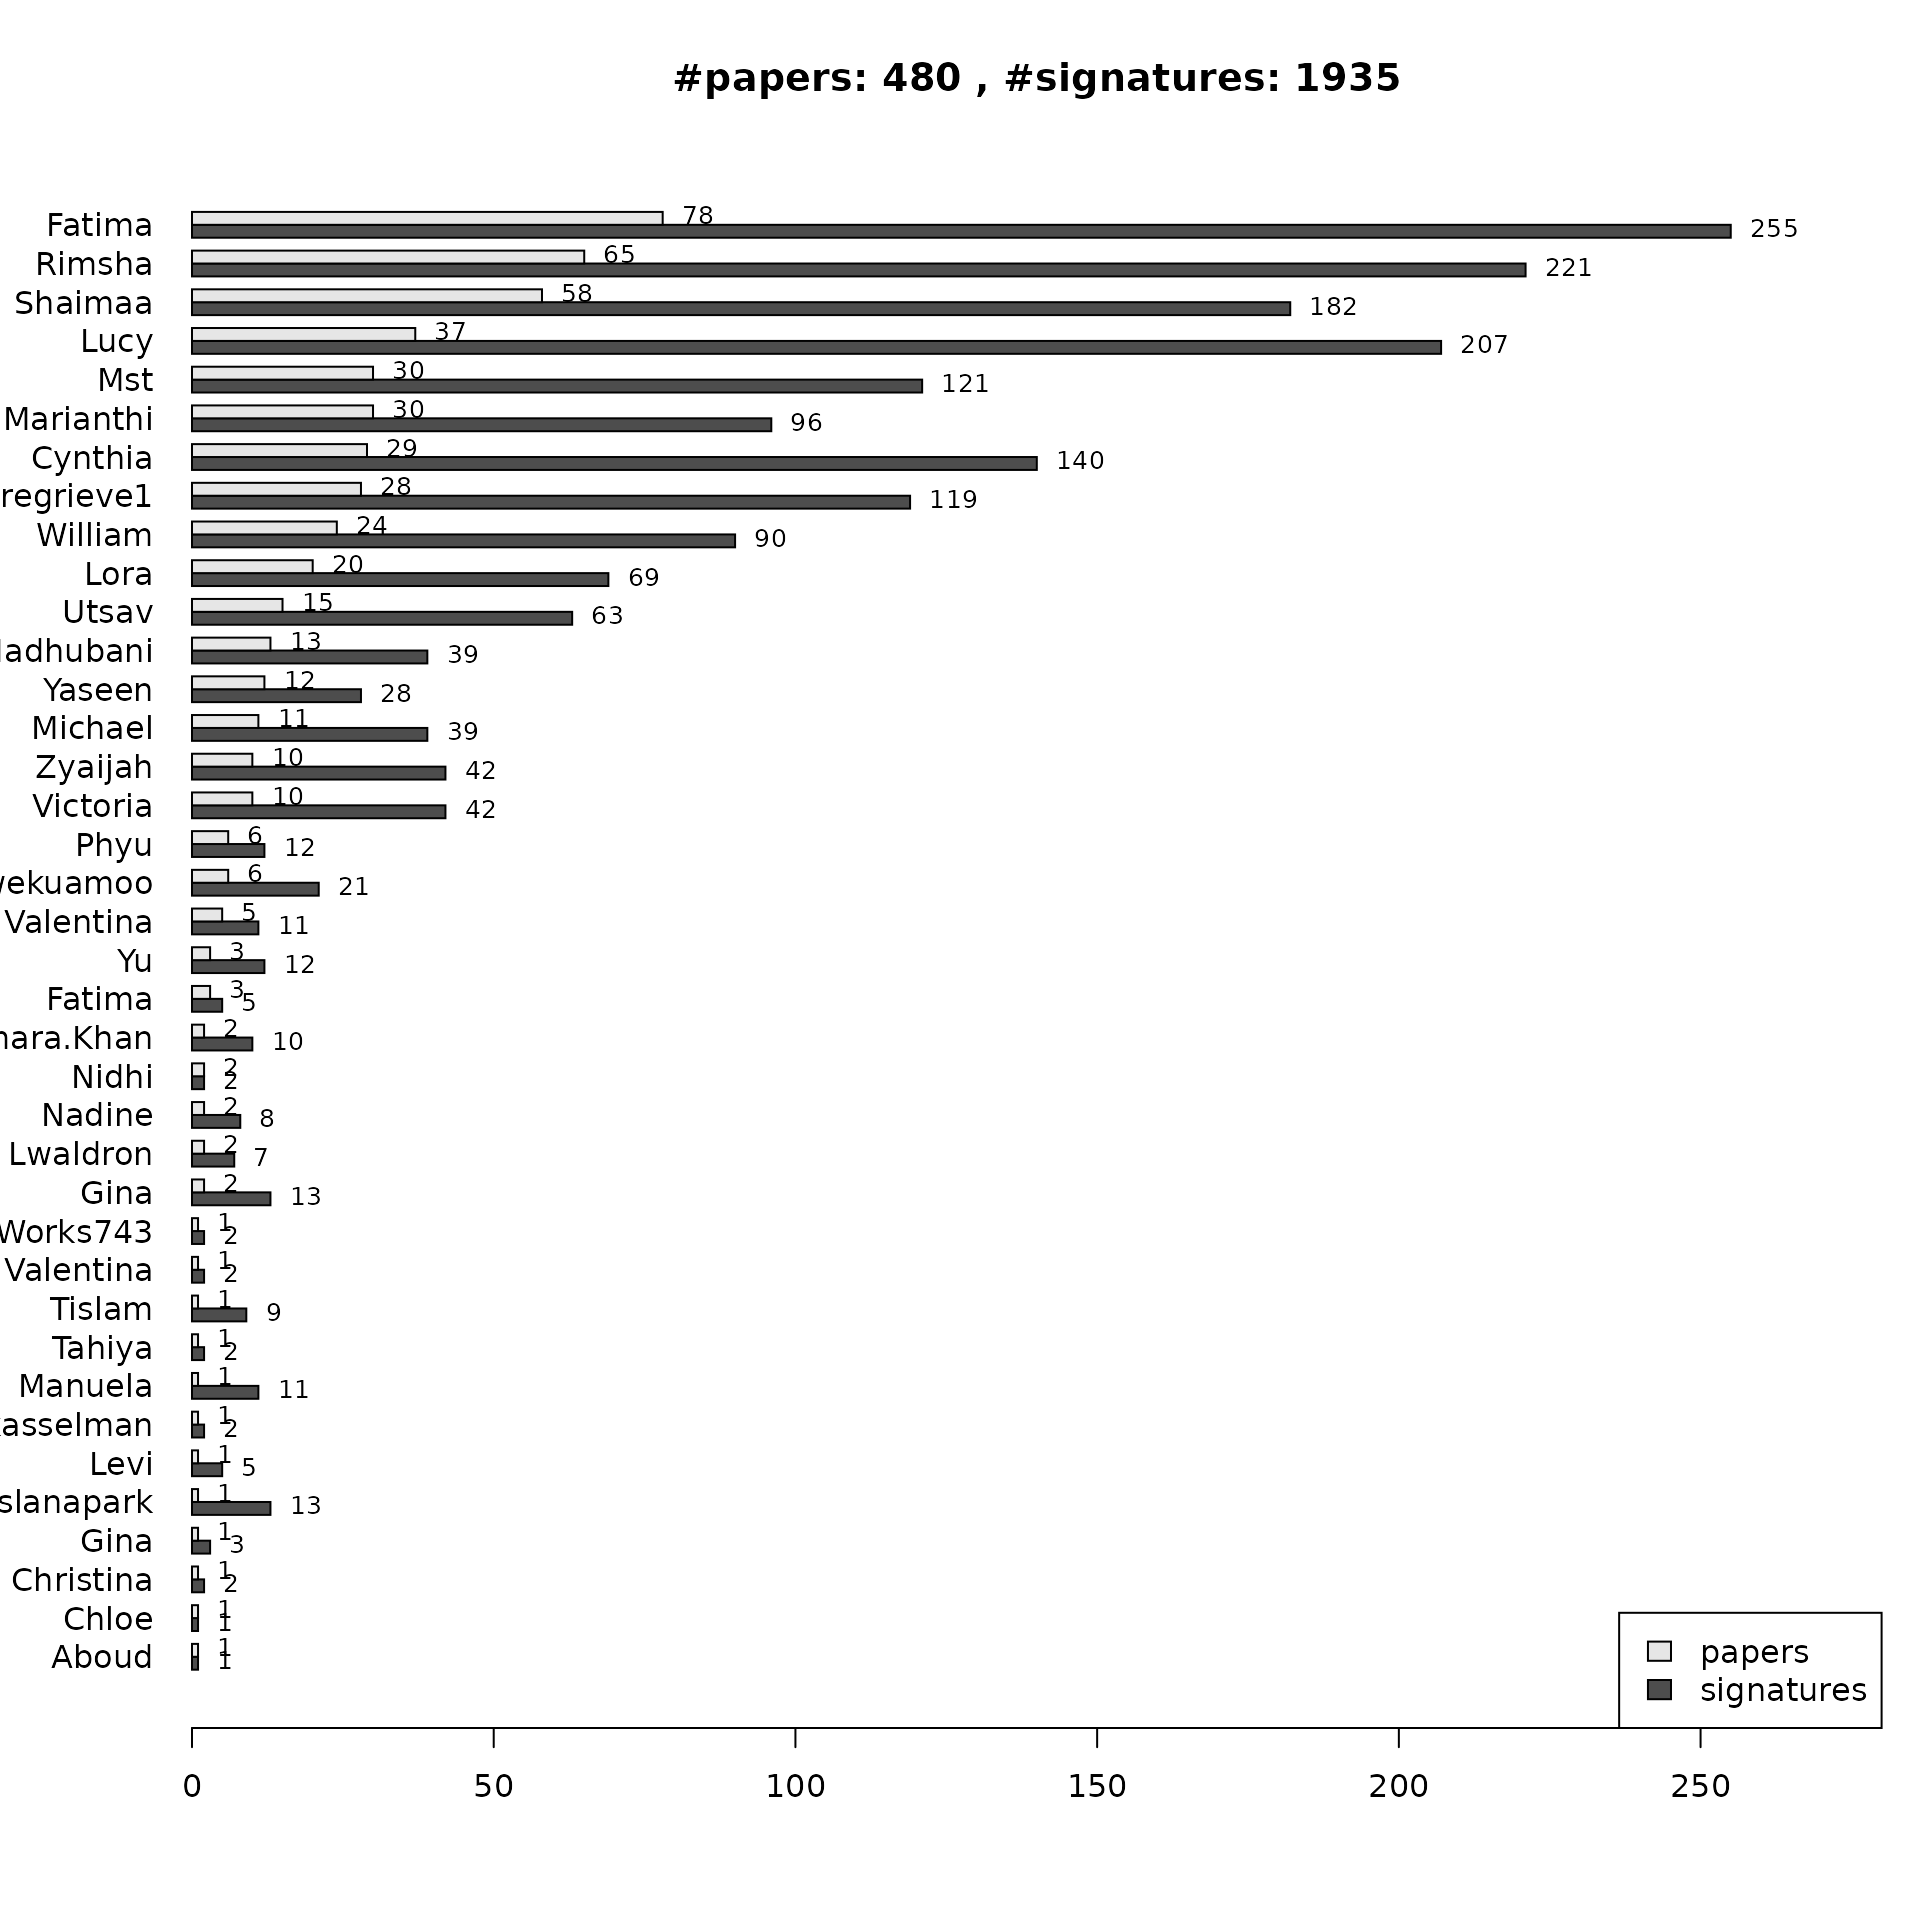
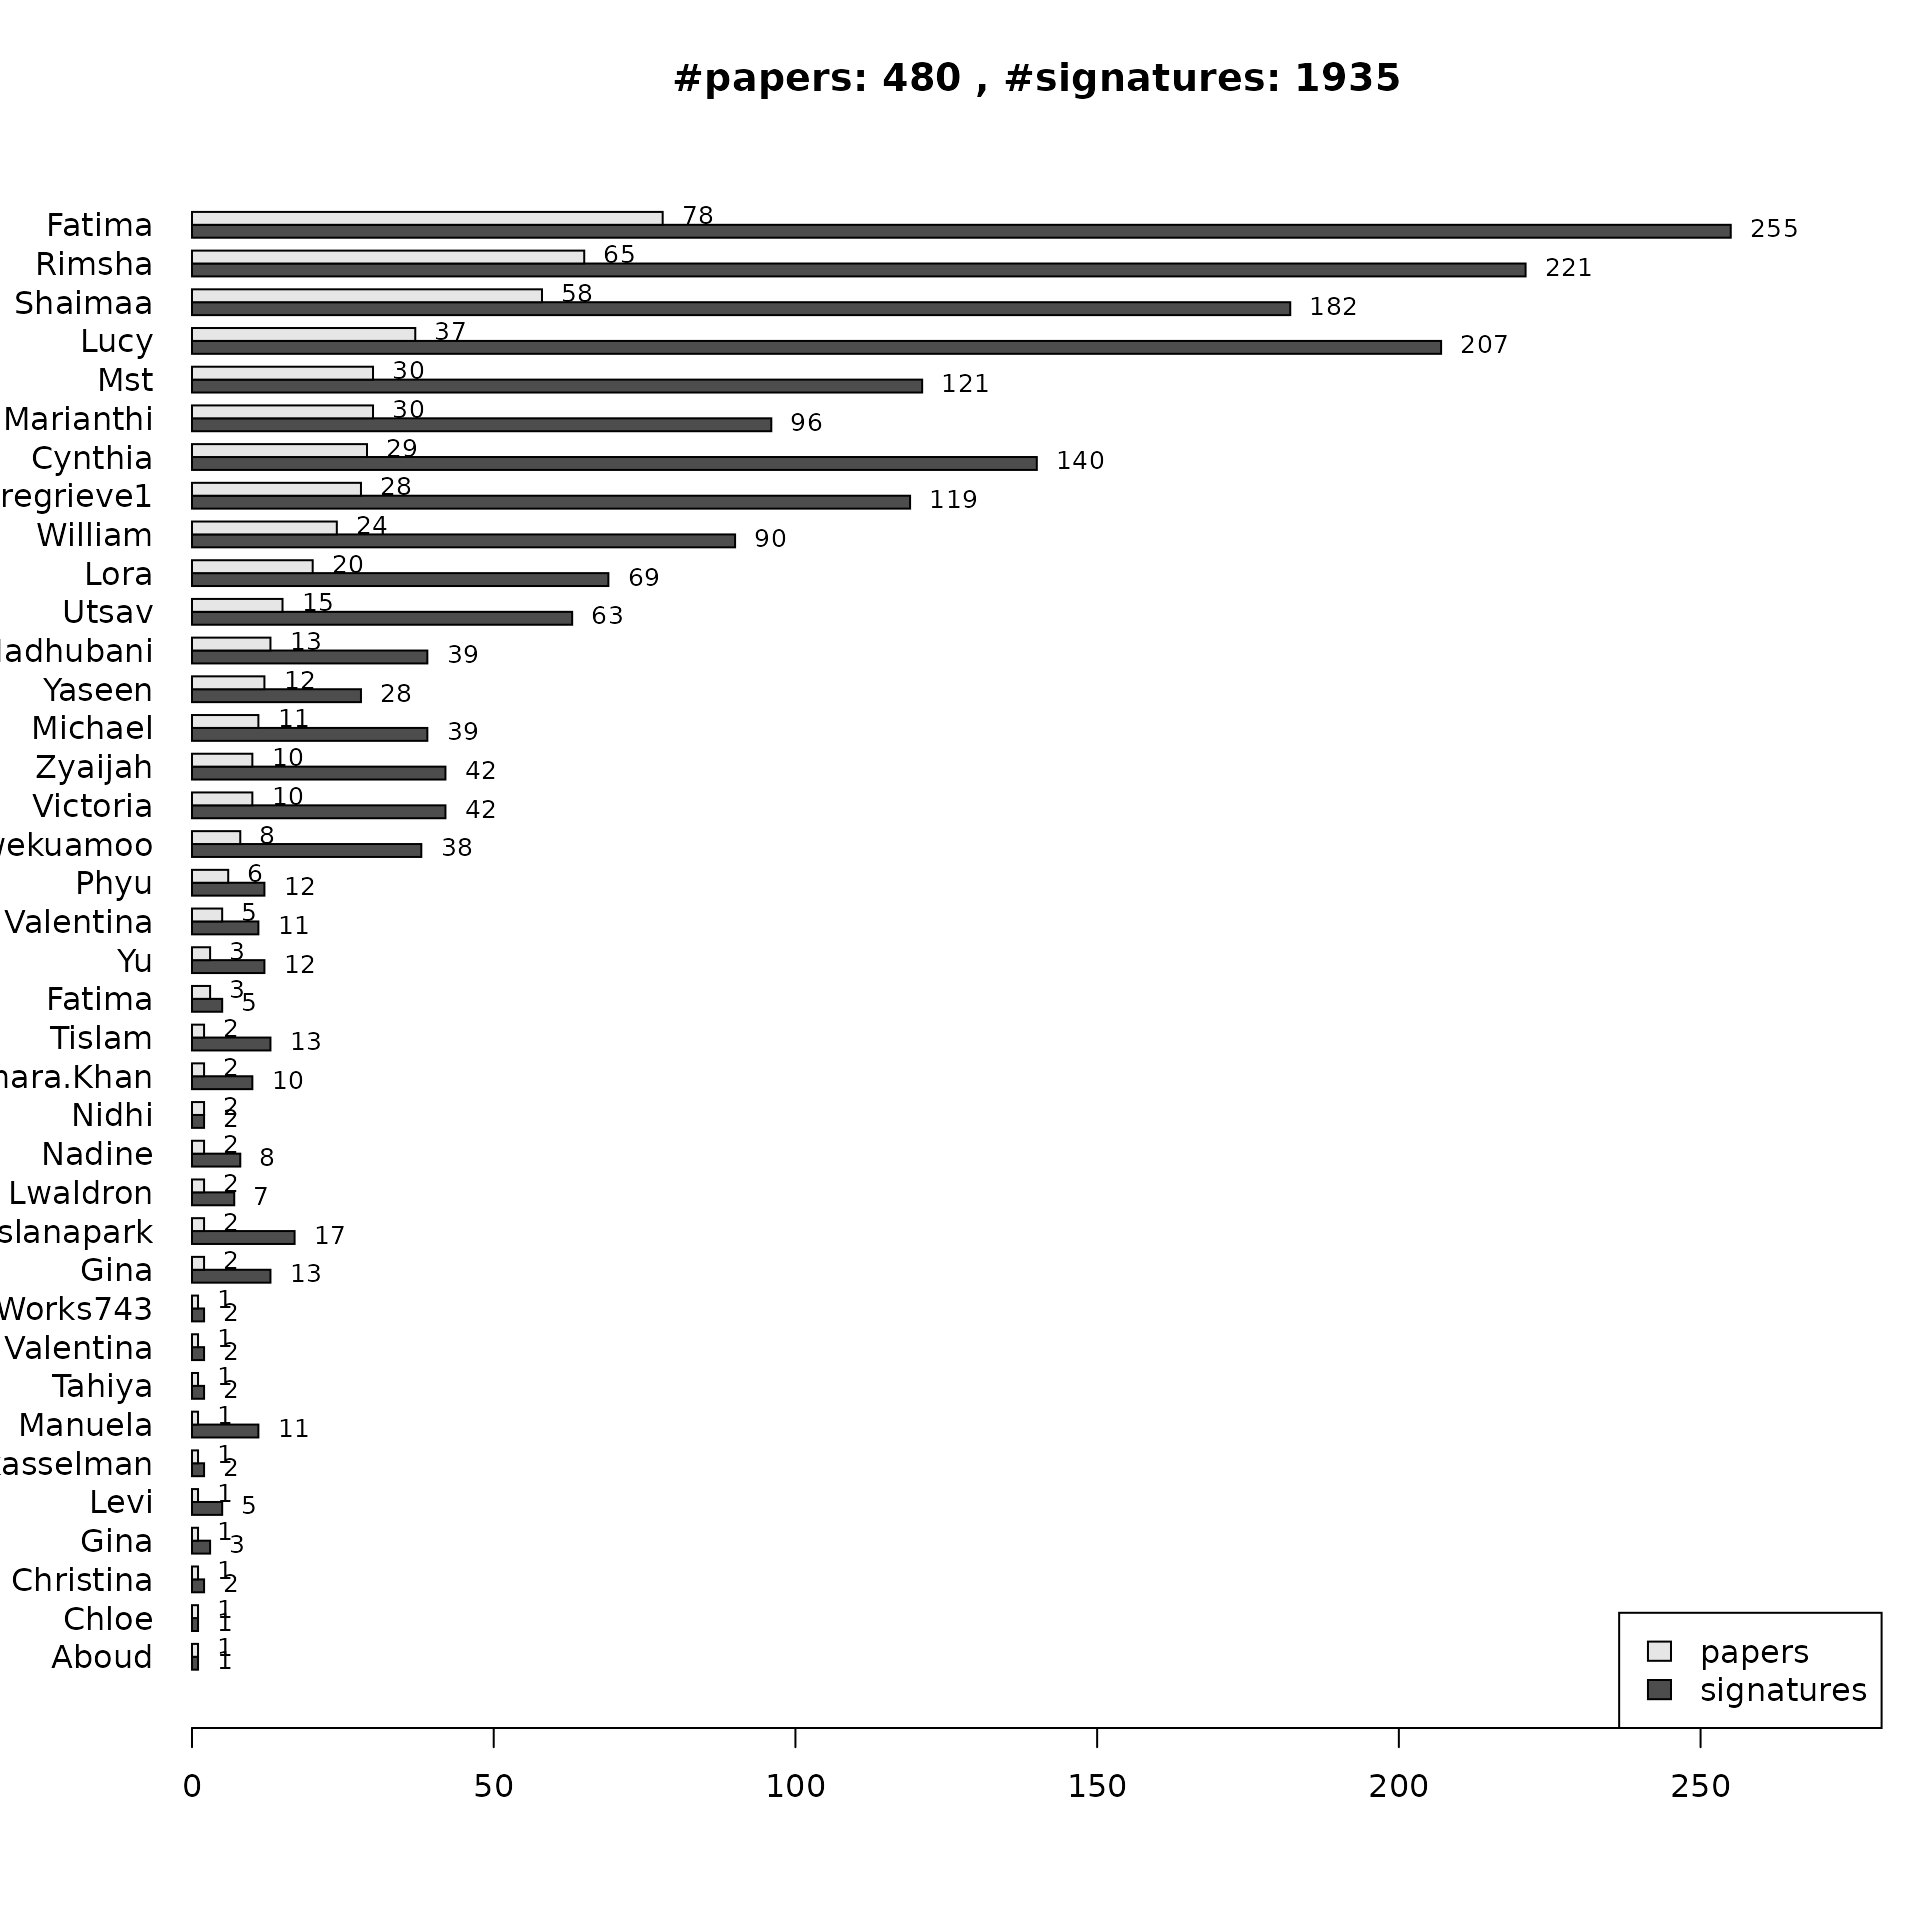
Deploying to gh-pages from  @ 9c0e06229ef63542f44c7cb56ad935cc12b6708c 🚀

diff --git a/articles/BugSigDBStats.html b/articles/BugSigDBStats.html
@@ -85,7 +85,7 @@
 <p>Get bulk export from bugsigdb.org:</p>
 <div class="sourceCode" id="cb2"><pre class="downlit">
 <span class="va">full.dat</span> <span class="op">&lt;-</span> <span class="fu">bugsigdbr</span><span class="fu">::</span><span class="fu"><a href="https://rdrr.io/pkg/bugsigdbr/man/importBugSigDB.html">importBugSigDB</a></span><span class="op">(</span><span class="op">)</span></pre></div>
-<pre><code>## using temporary cache /tmp/Rtmpb5WTIt/BiocFileCache</code></pre>
+<pre><code>## using temporary cache /tmp/Rtmpn0TQRZ/BiocFileCache</code></pre>
 <pre><code>## 
 ## ── Column specification ────────────────────────────────────────────────────────
 ## cols(
@@ -246,15 +246,15 @@
 ##                                       Gina 
 ##                                          3 
 ##                                Itslanapark 
-##                                         13 
+##                                         17 
 ##                                  Kwekuamoo 
-##                                         21 
+##                                         38 
 ##                              Lorakasselman 
 ##                                          2 
 ##                                   Lwaldron 
 ##                                          7 
 ##                      Lwaldron,WikiWorks743 
-##                                         18 
+##                                         19 
 ##                              Madhubani Dey 
 ##                                         39 
 ##                                    Manuela 
@@ -262,13 +262,13 @@
 ##                                Samara.Khan 
 ##                                         10 
 ##                                     Tislam 
-##                                          9 
+##                                         13 
 ##                                  Valentina 
 ##                                          2 
 ##        WikiWorks,WikiWorks743,WikiWorks753 
 ##                                          1 
 ##                               WikiWorks743 
-##                                       1577 
+##                                       1576 
 ##                  WikiWorks743,WikiWorks753 
 ##                                          1</code></pre>
 <div id="distances-between-signatures" class="section level2">
